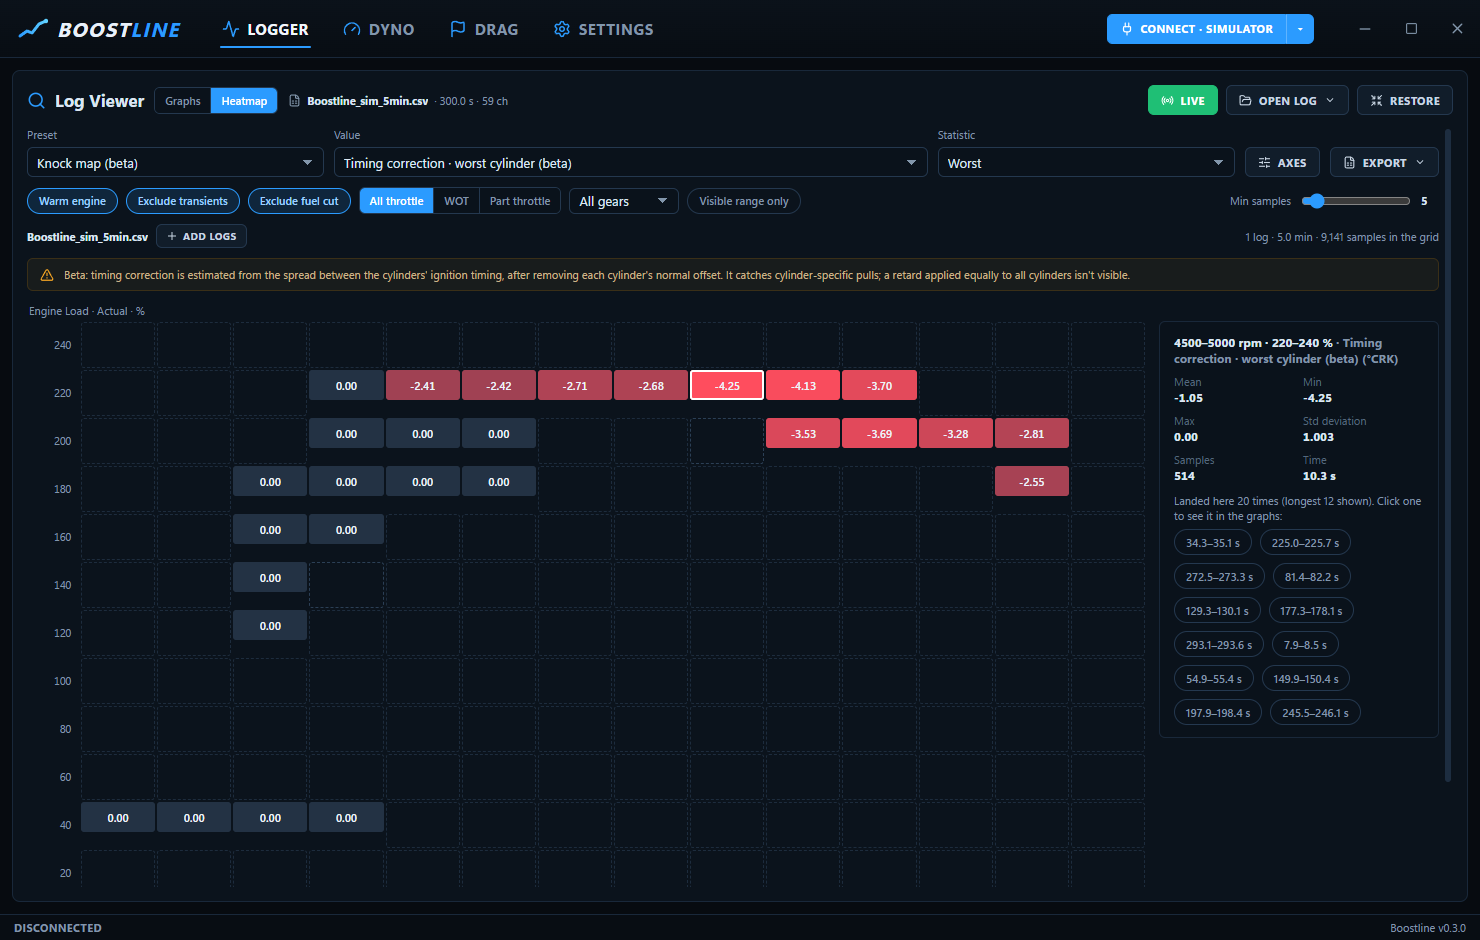
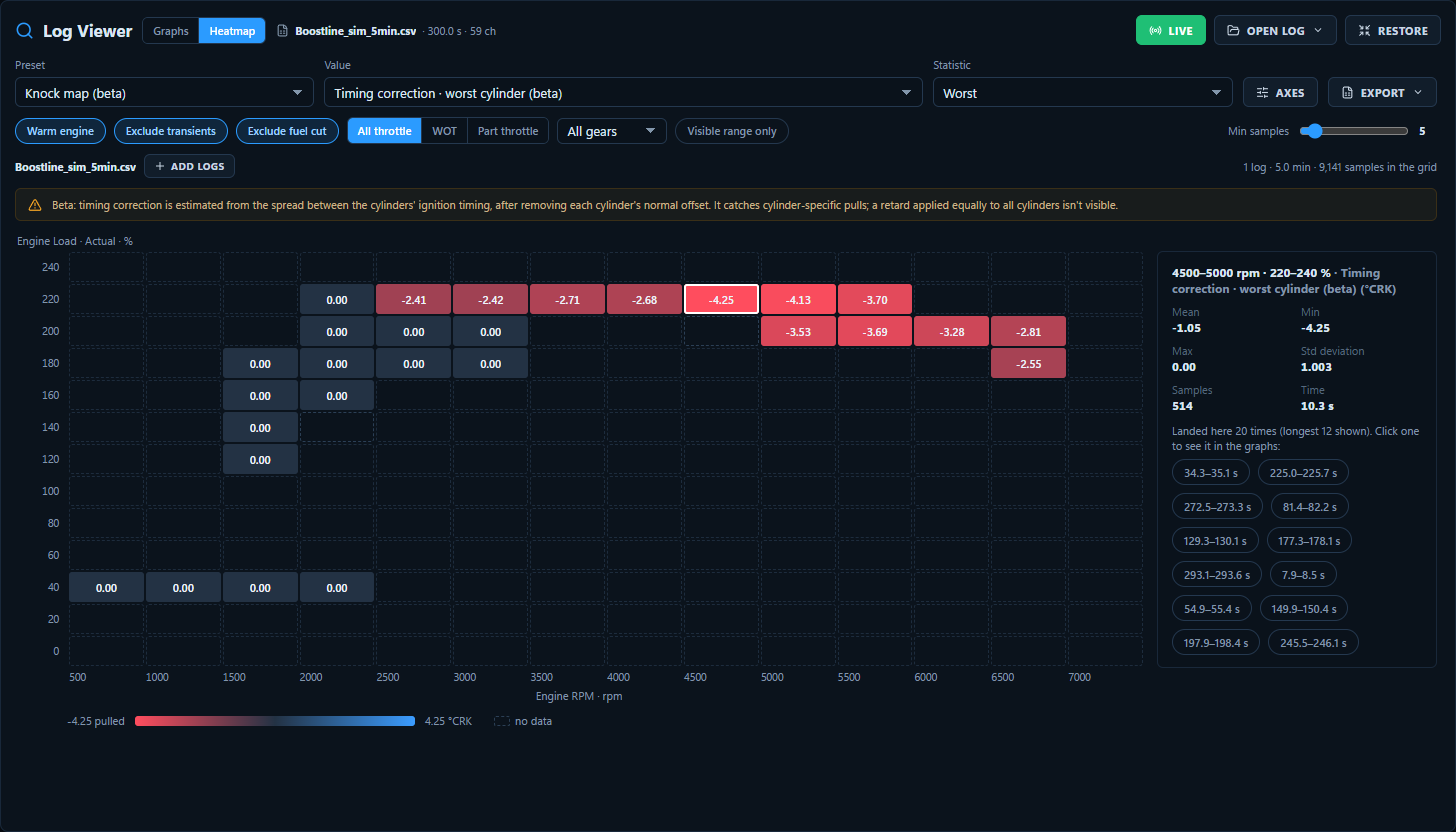
Expand the Heatmaps guide with screenshots and fix stretched heatmap rows

diff --git a/src/renderer/src/heatmap/HeatmapView.tsx b/src/renderer/src/heatmap/HeatmapView.tsx
@@ -345,7 +345,7 @@ function HeatmapGridView({ model, selected, onSelect }: { model: HeatmapModel; s
         cell.n ? `${Number.isFinite(v) ? `${fmtVal(v, model.decimals)} · ` : ''}${cell.n} samples · ${cell.time.toFixed(1)} s` : 'No data'
       }`
       if (!Number.isFinite(v)) {
-        cellsDesc.push(<div key={i} className={`hm-cell empty ${cell.n ? 'few' : ''}`} title={cell.n ? `${tip} (below the minimum)` : tip} />)
+        cellsDesc.push(<div key={i} className={`hm-cell hm-empty ${cell.n ? 'few' : ''}`} title={cell.n ? `${tip} (below the minimum)` : tip} />)
         continue
       }
       const { bg, fg } = cellColor(model, v)

diff --git a/src/renderer/src/styles.css b/src/renderer/src/styles.css
@@ -1297,11 +1297,11 @@ textarea {
   outline: 2px solid #ffffff;
   outline-offset: -2px;
 }
-.hm-cell.empty {
+.hm-cell.hm-empty {
   border: 1px dashed #1d2c3d;
   cursor: default;
 }
-.hm-cell.empty:hover {
+.hm-cell.hm-empty:hover {
   outline: none;
 }
 .hm-cell.few {

diff --git a/README.md b/README.md
@@ -195,14 +195,23 @@ Your files go to `Documents/Boostline`, which you can change in Settings:
 
 ## Heatmaps
 
-The Log Viewer's **Heatmap** view sorts every sample of your logs into an RPM × load grid and colors each cell by a value of your choice. Instead of scrolling through pulls looking for a problem, you see straight away *where* in the map it happens.
+The Log Viewer's **Heatmap** view sorts every sample of your logs into an RPM × load grid and colors each cell by a value of your choice. Instead of scrolling through pulls looking for a problem, you see straight away *where* in the map it happens, and you can jump from any cell to the moments that landed there.
 
 ![The knock map: worst-cylinder timing correction by RPM and load, with a selected cell's statistics and the moments that landed in it](docs/screenshots/heatmap.png)
 
-### Getting started
+*The knock map on a 5-minute simulator log. Red cells show where timing was pulled. The panel on the right shows the selected cell's numbers and every moment that landed in it.*
 
-1. Open a log in the **Log Viewer** and switch the toggle next to its title from **Graphs** to **Heatmap**.
-2. Pick a **Preset**:
+### 1. Switch to the heatmap
+
+Open a log in the **Log Viewer** (**Open log**) and switch the toggle next to its title from **Graphs** to **Heatmap**. The controls are along the top:
+
+![The heatmap toolbar: Graphs/Heatmap toggle, preset, value and statistic pickers, Axes and Export buttons, filters and the minimum-samples slider](docs/screenshots/heatmap-toolbar.png)
+
+- **Top row:** the **Preset**, **Value** and **Statistic** pickers, plus **Axes** and **Export**.
+- **Second row:** the filters and the minimum-samples slider.
+- **Third row:** the logs in the grid. **Add logs** combines more of them.
+
+### 2. Pick a preset
 
 | Preset | Shows | Look for |
 |---|---|---|
@@ -212,22 +221,63 @@ The Log Viewer's **Heatmap** view sorts every sample of your logs into an RPM ×
 | **Rail pressure map** | How far rail pressure drops below target, in % | Large drops: the high-pressure pump is at its limit |
 | **Coverage** | Time spent in each cell | Which parts of the map your logs actually cover |
 
-3. **Click a cell** to see its mean, min, max, spread, sample count and time, plus every moment in the logs that landed there. Click a moment to jump to the graphs, zoomed in, with that stretch shaded orange.
+<table>
+  <tr>
+    <td><img src="docs/screenshots/heatmap-lambda.png" alt="Lambda map: lambda actual minus target by RPM and load"></td>
+    <td><img src="docs/screenshots/heatmap-boost.png" alt="Boost map: boost actual minus target by RPM and load"></td>
+    <td><img src="docs/screenshots/heatmap-coverage.png" alt="Coverage map: seconds spent in each RPM and load cell"></td>
+  </tr>
+  <tr>
+    <td align="center"><b>Lambda map</b>: one lean cell where the engine comes out of fuel cut</td>
+    <td align="center"><b>Boost map</b>: blue under target while the turbo spools at low RPM</td>
+    <td align="center"><b>Coverage</b>: seconds spent per cell</td>
+  </tr>
+</table>
+
+Diverging values like errors and corrections use **red for the bad direction and blue for the other**. Amounts like time or samples use a single blue scale. Dashed cells have no data, or fewer samples than the **Min samples** setting.
+
+### 3. Click a cell, then jump to the graphs
+
+Clicking a cell shows its mean, min, max, spread, sample count and time in the side panel, plus every moment in the logs that landed there (the longest twelve). Click a moment and Boostline switches back to **Graphs**, zoomed in on it with that stretch shaded orange, so you can see what the engine was doing:
+
+![The graphs after jumping from a heatmap cell: zoomed to the moment, with the stretch shaded orange](docs/screenshots/heatmap-jump.png)
 
 ### Options
 
-- **Value and statistic:** any channel works, not just the presets. Statistics are *Mean*, *Worst* (the bad direction for that value), *Min*, *Max*, *Std deviation*, *Samples* and *Time spent*.
-- **Axes:** columns default to engine speed (500–7,500 rpm in steps of 500), rows to relative engine load (0–260 % in steps of 20). In **Axes** you can pick other channels (boost, MAF, torque…) and set start, step and end, or use **Auto from data**. To line the grid up with a map in your tune, use the same breakpoints.
-- **Filters:**
-  - **Warm engine:** coolant at or above 80 °C.
-  - **Exclude transients:** skips sharp tip-ins, tip-outs and shifts.
-  - **Exclude fuel cut:** skips overrun with the pedal released.
-  - **All throttle / WOT / Part throttle.**
-  - **Gear.**
-  - **Visible range only:** uses the range you've zoomed to in the graphs.
-- **Min samples:** cells with fewer samples are hidden, so a single stray sample can't paint a cell.
-- **Several logs:** **Add logs** combines more logs into the same grid, e.g. a week of driving. Cells are weighted by time, so logs recorded at different sample rates combine fairly.
-- **Export:** **Copy table** (pastes into Excel or a map editor, highest load on top), **Save as CSV…**, or **Save as PNG…**.
+**Value and statistic.** Any channel works, not just the presets. Statistics are:
+- *Mean*
+- *Worst* (the bad direction for that value)
+- *Min* and *Max*
+- *Std deviation*
+- *Samples* and *Time spent*
+
+**Axes.** Columns default to engine speed (500–7,500 rpm in steps of 500) and rows to relative engine load (0–260 % in steps of 20).
+- In **Axes** you can pick other channels (boost, MAF, torque…), set start, step and end, or use **Auto from data**.
+- To line the grid up with a map in your tune, use the same breakpoints.
+- If more than 10 % of the samples fall outside the axes, Boostline tells you to widen them.
+
+![The axes editor: channel, start, step and end for columns and rows, with Auto from data](docs/screenshots/heatmap-axes.png)
+
+**Filters.**
+- **Warm engine:** coolant at or above 80 °C.
+- **Exclude transients:** skips sharp tip-ins, tip-outs and shifts. Normal boost build-up during a pull is kept.
+- **Exclude fuel cut:** skips overrun with the pedal released.
+- **All throttle / WOT / Part throttle.**
+- **Gear.**
+- **Visible range only:** uses the range you've zoomed to in the graphs.
+
+**Min samples.** Cells with fewer samples are hidden, so a single stray sample can't paint a cell.
+
+**Several logs.** **Add logs** combines more logs into the same grid, e.g. a week of driving. Cells are weighted by time, so logs recorded at different sample rates combine fairly. When several logs are combined, each moment in the side panel shows which log it came from.
+
+### Export
+
+**Export** offers three formats:
+- **Copy table:** pastes into Excel or a map editor, highest load on top, like a tune table.
+- **Save as CSV…**
+- **Save as PNG…:** a shareable image with the title, source log, axes and legend.
+
+![An exported heatmap PNG](docs/screenshots/heatmap-export.png)
 
 ### About the knock map (beta)
 

diff --git a/CHANGELOG.md b/CHANGELOG.md
@@ -5,6 +5,14 @@ The format follows [Keep a Changelog](https://keepachangelog.com/en/1.1.0/) and 
 
 ## [Unreleased]
 
+### Fixed
+
+- Heatmap rows were stretched to about 46 px instead of 30 px, so a full map didn't fit on screen without scrolling.
+
+### Changed
+
+- The README's Heatmaps guide now walks through every step with screenshots: the toolbar, the presets, jumping from a cell to the graphs, the axes editor and an exported PNG.
+
 ## [0.4.0] - 2026-10-09
 
 Heatmaps: see where in the map timing gets pulled, the mixture runs lean, or boost misses its target.
